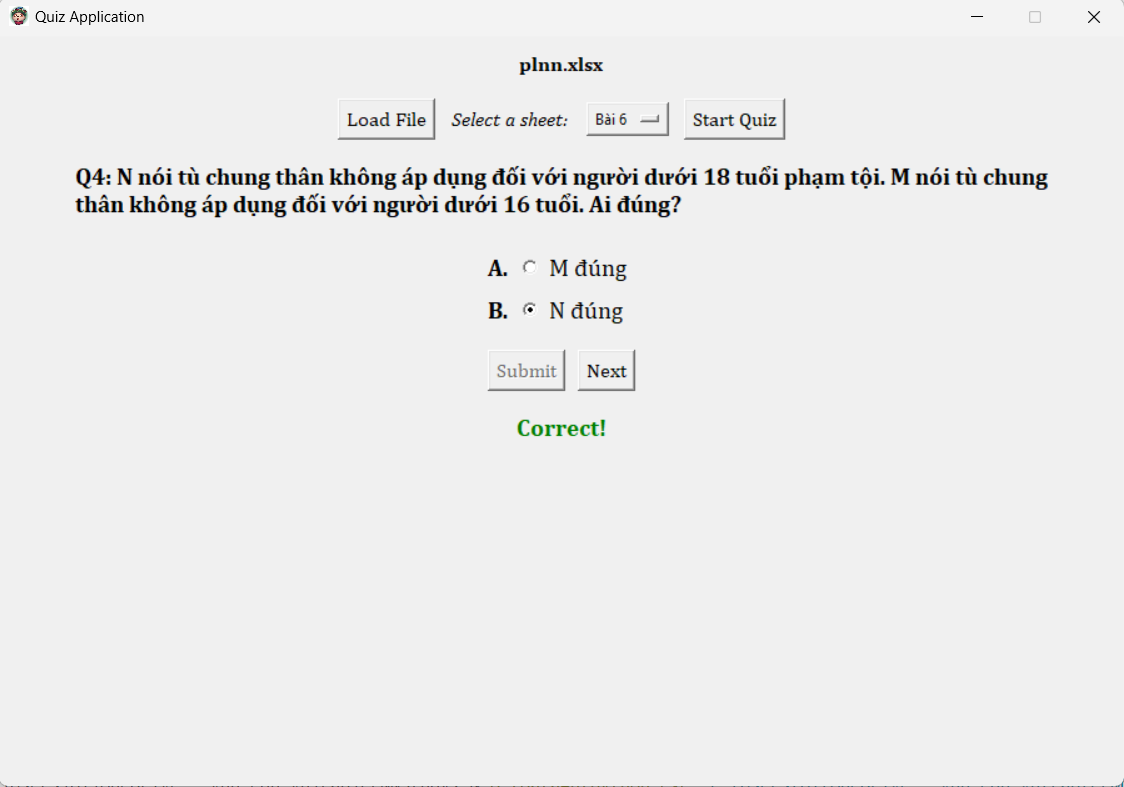
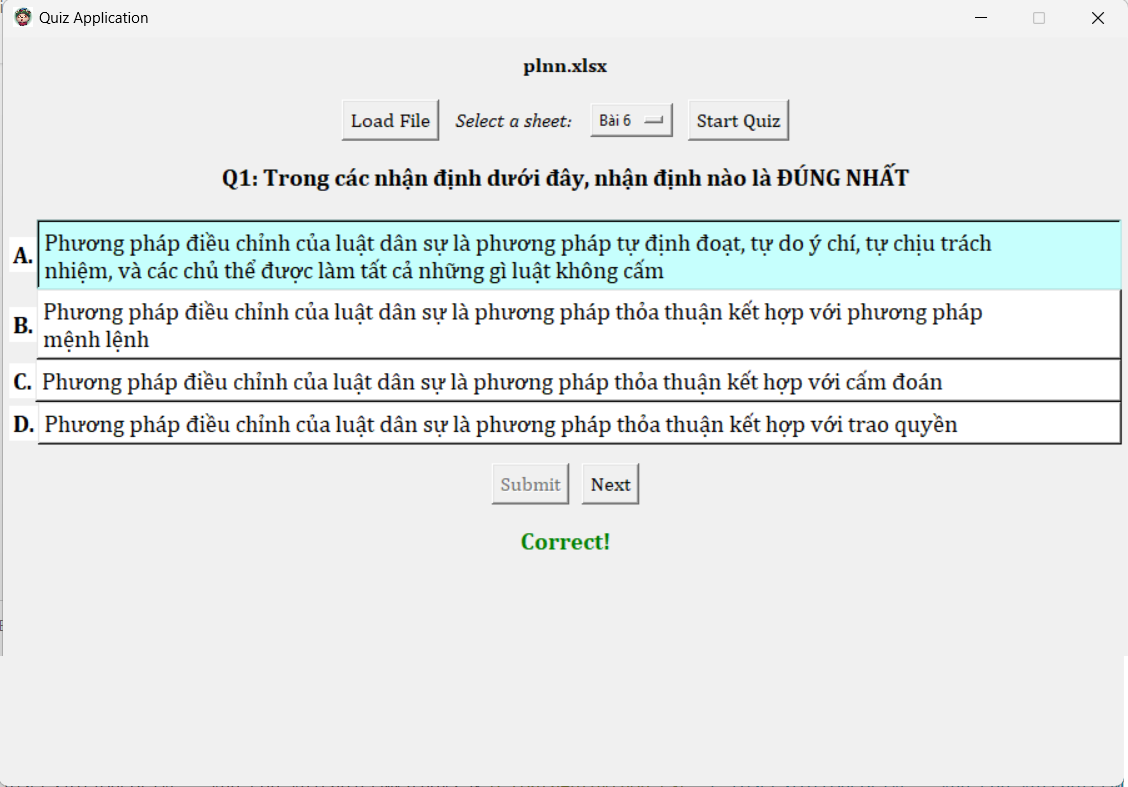
change sth

diff --git a/quiz3.py b/quiz3.py
@@ -33,24 +33,32 @@ class QuizApp:
         self.root.geometry(f"{width}x{height}+{x}+{y}")
 
     def init_ui(self):
-        self.file_label = Label(self.root, text="No file selected", font=('Cambria', 12, 'bold'))
+        self.file_label = Label(
+            self.root, text="No file selected", font=("Cambria", 12, "bold")
+        )
         self.file_label.pack(pady=10)
 
         # Frame for Load File, Select Sheet, and Start Quiz buttons
         top_frame = Frame(self.root)
         top_frame.pack(pady=5)
 
-        self.load_button = Button(top_frame, text="Load File", command=self.choose_file, font=('Cambria', 12))
+        self.load_button = Button(
+            top_frame, text="Load File", command=self.choose_file, font=("Cambria", 12)
+        )
         self.load_button.pack(side=LEFT, padx=5)
 
-        self.sheet_label = Label(top_frame, text="Select a sheet:", font=('Cambria', 12, 'italic'))
+        self.sheet_label = Label(
+            top_frame, text="Select a sheet:", font=("Cambria", 12, "italic")
+        )
         self.sheet_label.pack(side=LEFT, padx=5)
 
         self.sheet_var = StringVar(self.root)
         self.sheet_menu = OptionMenu(top_frame, self.sheet_var, [])
         self.sheet_menu.pack(side=LEFT, padx=5)
 
-        self.start_button = Button(top_frame, text="Start Quiz", command=self.start_quiz, font=('Cambria', 12))
+        self.start_button = Button(
+            top_frame, text="Start Quiz", command=self.start_quiz, font=("Cambria", 12)
+        )
         self.start_button.pack(side=LEFT, padx=5)
 
         self.question_label = Label(
@@ -69,10 +77,21 @@ class QuizApp:
         bottom_frame = Frame(self.root)
         bottom_frame.pack(pady=5)
 
-        self.submit_button = Button(bottom_frame, text="Submit", command=self.submit_answer, font=('Cambria', 12))
+        self.submit_button = Button(
+            bottom_frame,
+            text="Submit",
+            command=self.submit_answer,
+            font=("Cambria", 12),
+        )
         self.submit_button.pack(side=LEFT, padx=5)
 
-        self.next_button = Button(bottom_frame, text="Next", command=self.next_question, state=DISABLED, font=('Cambria', 12))
+        self.next_button = Button(
+            bottom_frame,
+            text="Next",
+            command=self.next_question,
+            state=DISABLED,
+            font=("Cambria", 12),
+        )
         self.next_button.pack(side=LEFT, padx=5)
 
         self.result_label = Label(self.root, text="")
@@ -234,21 +253,43 @@ class QuizApp:
             return
 
         q = self.questions[self.current_question_index]
-        self.question_label.config(text=f"Q{self.current_question_index + 1}: {q['question']}", font=('Cambria', 14, 'bold'), anchor='w', justify='left', wraplength=800)
+        self.question_label.config(
+            text=f"Q{self.current_question_index + 1}: {q['question']}",
+            font=("Cambria", 14, "bold"),
+            anchor="w",
+            justify="left",
+            wraplength=800,
+        )
         self.options_var.set(None)  # Đặt lại giá trị của biến tùy chọn thành None
 
-        choices = list(enumerate(q['choices']))
+        choices = list(enumerate(q["choices"]))
 
         self.options = []
         for i, (original_idx, choice) in enumerate(choices):
             frame = Frame(self.options_frame)
-            frame.pack(fill='x', anchor='w', padx=5)
+            frame.pack(fill="x", anchor="w", padx=5)
 
-            label = Label(frame, text=f"{chr(65 + i)}.", font=('Cambria', 14, 'bold'))
-            label.pack(side='left')
+            label = Label(
+                frame, text=f"{chr(65 + i)}.", font=("Cambria", 14, "bold"), bg="white"
+            )
+            label.pack(side="left")
 
-            rb = Radiobutton(frame, text=choice, font=('Cambria', 14), variable=self.options_var, value=str(original_idx), anchor='w', wraplength=800, justify='left')
-            rb.pack(side='left', fill='x')
+            rb = Radiobutton(
+                frame,
+                text=choice,
+                font=("Cambria", 14),
+                variable=self.options_var,
+                value=str(original_idx),
+                anchor="w",
+                wraplength=800,
+                justify="left",
+                indicatoron=False,
+                # height=3,
+                width=810,
+                selectcolor="#C6FFFD",
+                bg="white",
+            )
+            rb.pack(side="left", fill="x")
 
             self.options.append(rb)
 
@@ -264,14 +305,19 @@ class QuizApp:
         correct_option = self.questions[self.current_question_index]["correct_answer"]
 
         if selected_option == correct_option:
-            self.result_label.config(text="Correct!", fg="green", font=('Cambria', 14, 'bold'))
+            self.result_label.config(
+                text="Correct!", fg="green", font=("Cambria", 14, "bold")
+            )
         elif correct_option is None:
-            self.result_label.config(text="No correct answer", fg="red", font=('Cambria', 14, 'bold'))
+            self.result_label.config(
+                text="No correct answer", fg="red", font=("Cambria", 14, "bold")
+            )
             self.incorrect_count += 1
         else:
             self.result_label.config(
                 text=f"Incorrect! The correct answer is {chr(65 + correct_option)}",
-                fg="red", font=('Cambria', 14, 'bold')
+                fg="red",
+                font=("Cambria", 14, "bold"),
             )
             self.incorrect_count += 1
 
